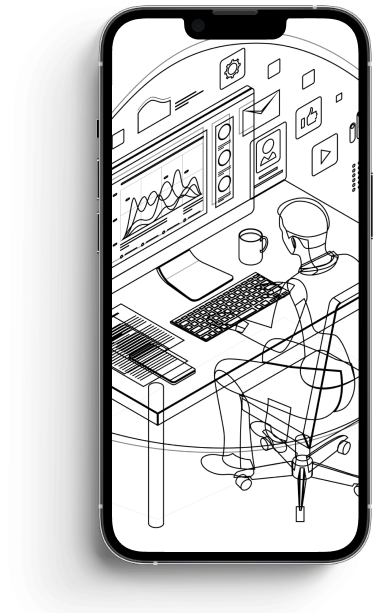
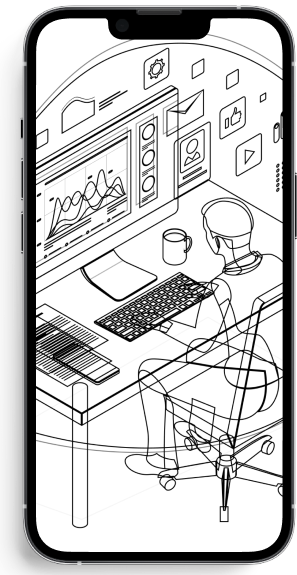
.

diff --git a/style.css b/style.css
@@ -65,12 +65,14 @@ button{
     height: 50px;
     border-radius: 50px;
 }
-.banner>.right{
+.banner>.right>img{
+    height: 100%;
     display: flex;
     justify-content: center;
+    width: 50%;
 }
 h2{
-    font-size: 50px;
+    font-size: 52px;
     font-weight: 700px;
     font-family: sans-serif;
 }
@@ -85,9 +87,33 @@ p{
 }
 .right{
     background-image: url(imges/image.png);
+    background-repeat: no-repeat;
     height: 500px;
-    width: 500px;
+    width: 500px;   
+    display: flex;
+    justify-content: center;
 }
 .content{
     display: flex;
+}
+@media screen and  (max-width:1250px) {
+    .right{
+        background-image: none;
+    }
+}
+@media screen and (max-width:915px){
+    .header>.nav>ul{
+        display: none;
+    }
+}
+@media screen and (max-width:615px) {
+    .banner>.right>img{
+        flex-wrap: wrap;
+        flex-direction: row;
+}
+}
+@media screen {
+    .banner{
+        height: auto;
+    }
 }
